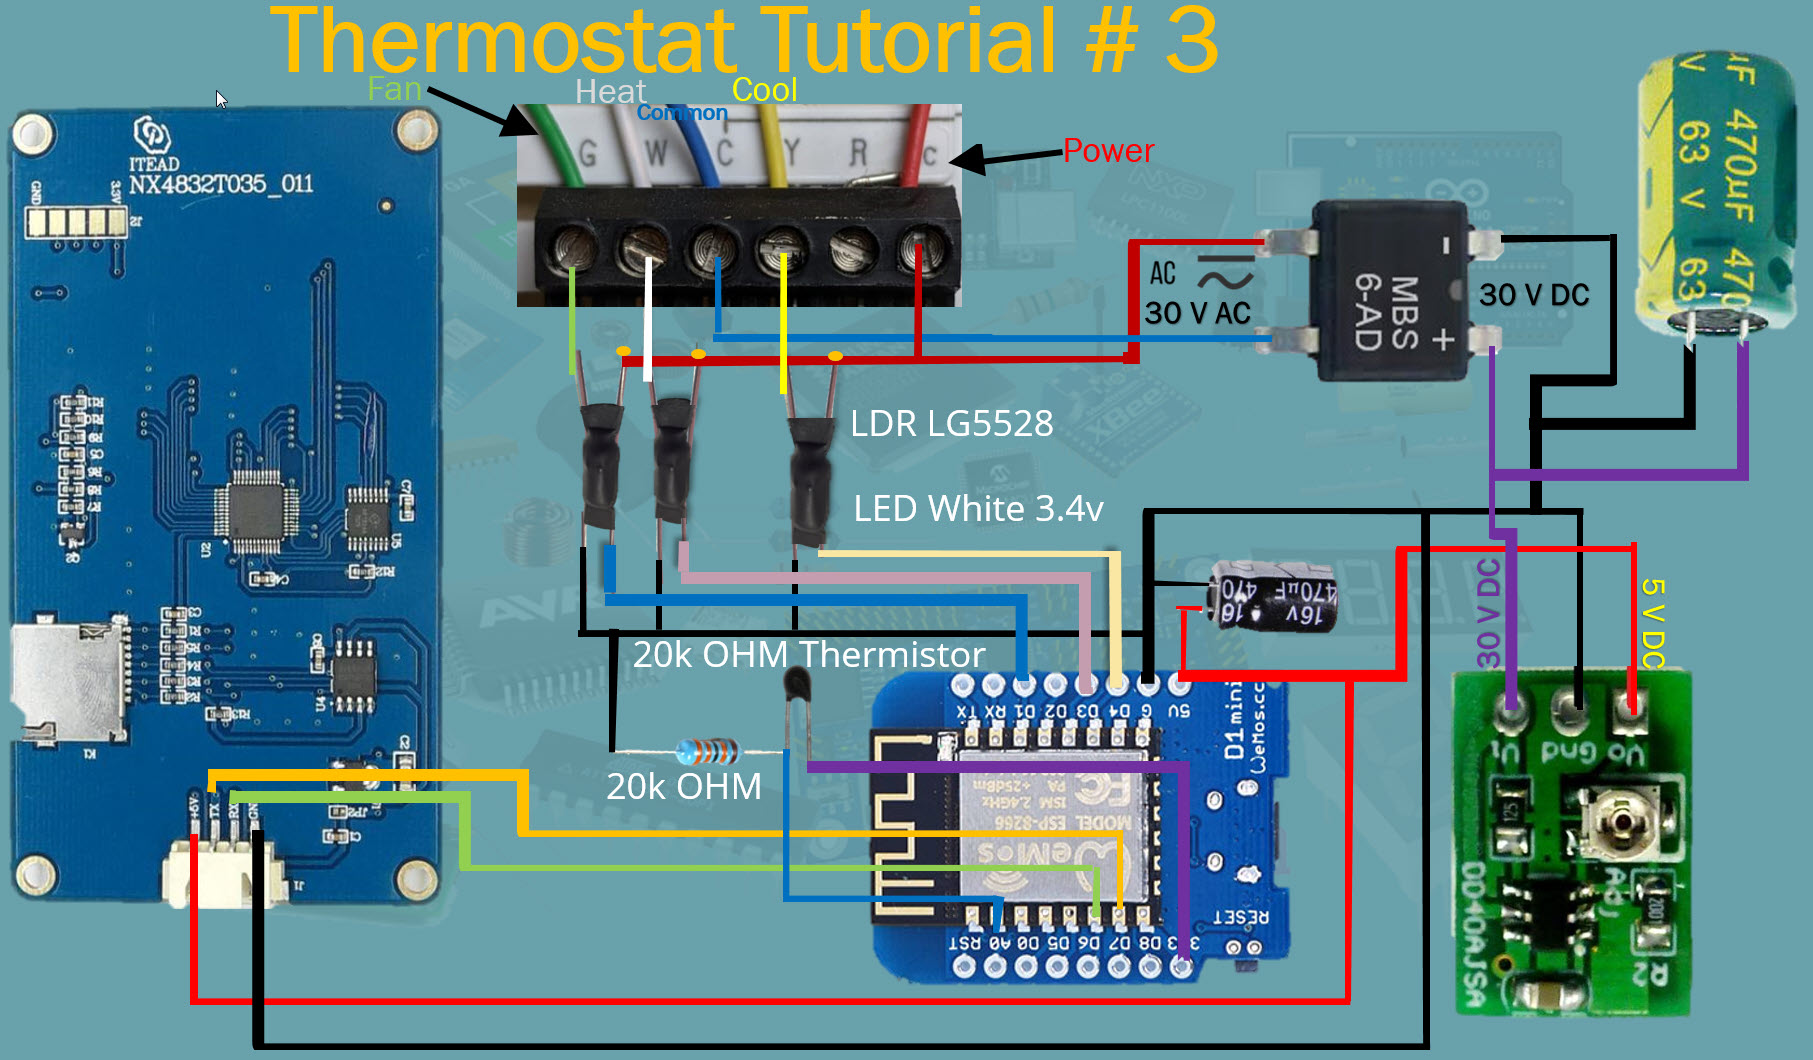
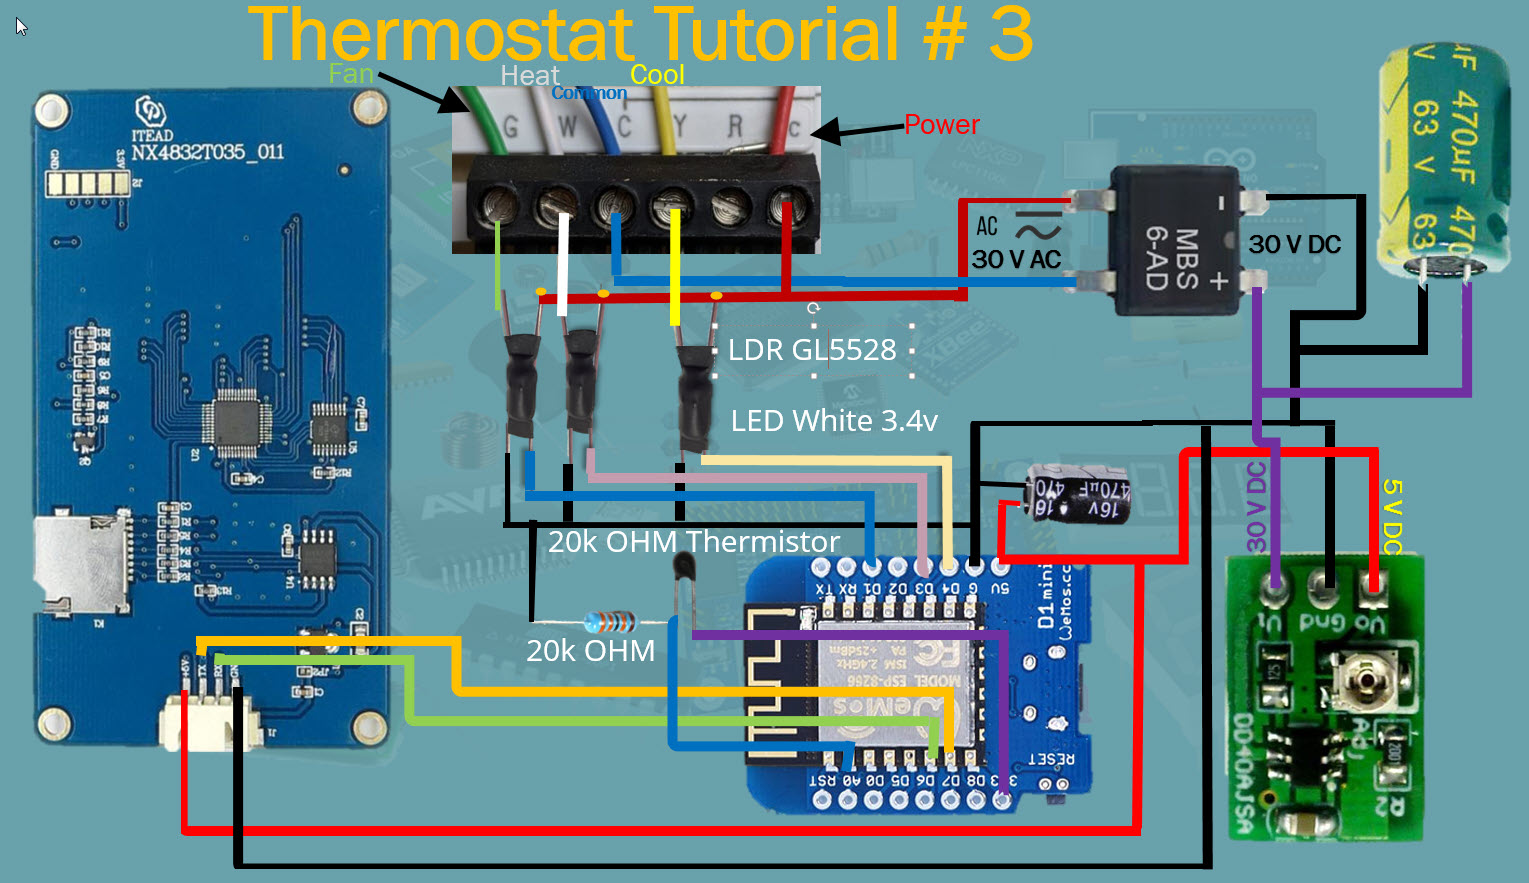
LDR typo fixed

diff --git a/README.md b/README.md
@@ -33,7 +33,7 @@ https://www.aliexpress.com/item/32705466032.html?spm=a2g0o.productlist.0.0.4c535
 1 x voltage ragulator (30 v dc to 5v dc) -https://www.aliexpress.com/item/32671102728.html?spm=a2g0s.9042311.0.0.27424c4dNYkbjd
 
 3 X 3.4v LEDs
-3 X LG5528 LDR
+3 X GL5528 LDR
 2 pole/3 pole Screw Terminal Block one each
 1 x resistor that matches Thermistor resistance
 1 x capacitor 470uf 63v
